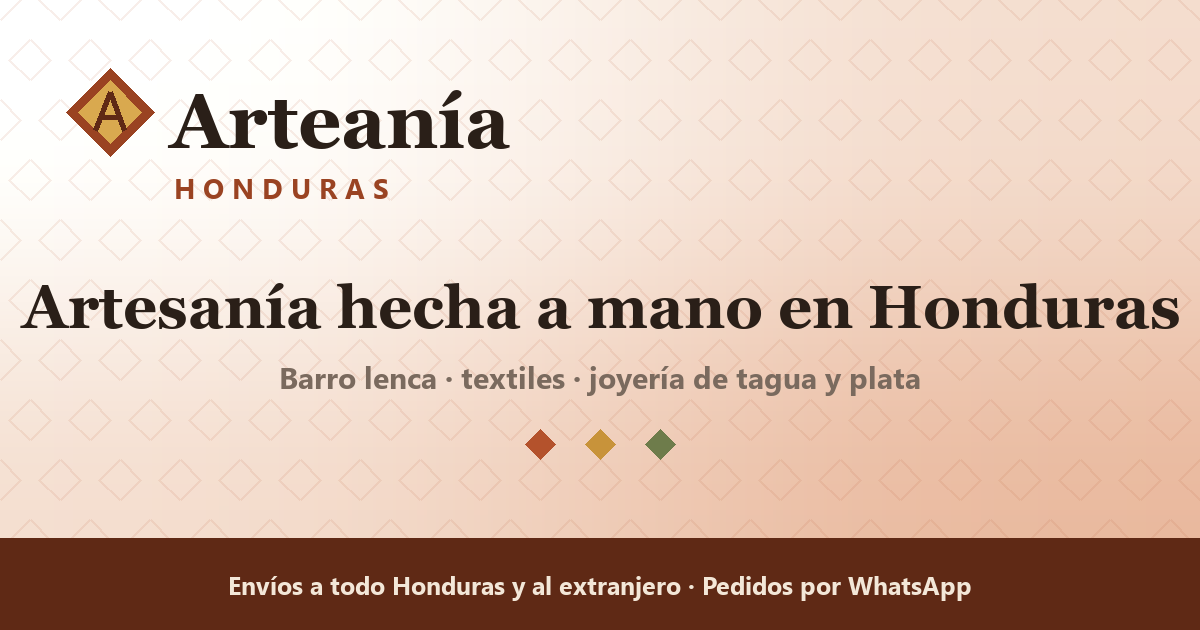
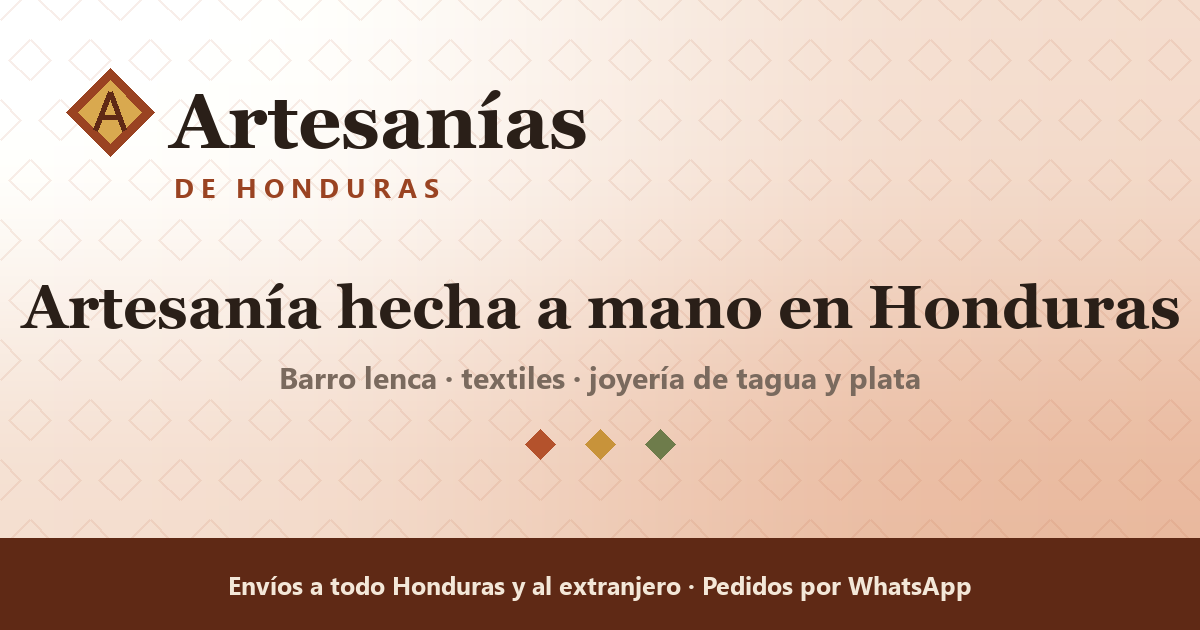
feat: renombrar la marca a Artesanias De Honduras y publicar la ciudad de la tienda
La pagina de Facebook del negocio se llama "Artesanias De Honduras" (Choloma) y el
sitio se llamaba "Arteania Honduras": dos nombres para el mismo negocio. Se unifica
todo al nombre que ya tiene audiencia en Facebook.

Cambio de marca:
- 48 reemplazos en 29 archivos, hechos con un script que solo toca la forma
  acentuada "Arteania". La forma sin tilde ("ArteaniaHonduras") es el nombre del
  repositorio y la ruta base de GitHub Pages, y queda intacta a proposito.
- El logotipo pasa a "Artesanias" con la sublinea "De Honduras", con el
  interletrado ajustado para que las dos lineas queden equilibradas.
- Se regeneran favicon, manifest, robots, las ilustraciones SVG y la tarjeta de
  Open Graph con el nombre nuevo.
- Las descripciones de las paginas, el titulo compuesto y el marcado estructurado
  toman el nombre desde SITE, asi que no hubo que tocarlos uno por uno.

Ubicacion:
- Nuevo bloque UBICACION en la configuracion central: Choloma, Cortes, Honduras.
  Se publica la ciudad porque ya es informacion publica de la pagina de Facebook;
  la direccion exacta y el enlace de Maps quedan como TODO y el marcado
  estructurado los omite mientras esten vacios.
- El PostalAddress del JSON-LD declara ciudad, departamento y pais, lo que ayuda a
  aparecer en busquedas del tipo "artesanias en Cortes".
- La ubicacion aparece en el pie de pagina, en la tarjeta de tienda fisica de
  contacto y en la pagina de envios y pagos.

Changed region(s): [[0.2775, 0.1508, 0.4933, 0.2413], [0.1542, 0.2714, 0.37, 0.3317]]

diff --git a/src/config/site.ts b/src/config/site.ts
@@ -1,5 +1,5 @@
 /**
- * Configuración central del sitio Arteanía Honduras.
+ * Configuración central del sitio Artesanías De Honduras.
  *
  * Este es el ÚNICO archivo que hay que tocar para cambiar datos de contacto,
  * métodos de pago, envíos y banderas de funcionalidad. Ninguna página debe
@@ -11,13 +11,13 @@
 
 export const SITE = {
   /** Nombre legal/comercial que aparece en el logo y los metadatos. */
-  nombre: 'Arteanía Honduras',
-  nombreCorto: 'Arteanía',
+  nombre: 'Artesanías De Honduras',
+  nombreCorto: 'Artesanías',
   /** Lema corto, se usa en el header, el footer y las tarjetas sociales. */
   eslogan: 'Artesanía hecha a mano en Honduras',
   /** Descripción de 150-160 caracteres para SEO y tarjetas sociales. */
   descripcion:
-    'Arteanía Honduras reúne artesanías, textiles y joyería hechas a mano por artesanos hondureños. Piezas únicas con historia, envíos a todo Honduras y al extranjero.',
+    'Artesanías De Honduras reúne artesanías, textiles y joyería hechas a mano por artesanos hondureños. Piezas únicas con historia, envíos a todo Honduras y al extranjero.',
   /** URL canónica del sitio (sin el subdirectorio). */
   url: 'https://artesania-honuras.github.io',
   /** Subdirectorio de publicación en GitHub Pages. Debe coincidir con astro.config.mjs. */
@@ -41,7 +41,7 @@ export const CONTACTO = {
     numeroVisible: '+504 9965-3413',
     /** Mensaje que se prellena cuando el visitante abre el chat genérico. */
     mensajePorDefecto:
-      '¡Hola Arteanía Honduras! Vengo desde su sitio web y quiero información sobre sus piezas artesanales.',
+      '¡Hola Artesanías De Honduras! Vengo desde su sitio web y quiero información sobre sus piezas artesanales.',
     horario: 'Lunes a sábado, 8:00 a.m. a 6:00 p.m. (hora de Honduras)',
   },
   /** Correo de respaldo para proveedores o facturación. Opcional. */
@@ -157,8 +157,8 @@ export const ENVIOS = [
     id: 'tienda-fisica',
     nombre: 'Tienda física y entrega en mano',
     descripcion:
-      'Puedes conocer las piezas en persona, ver los acabados y recoger tu pedido sin costo de envío. Te esperamos con cita previa por WhatsApp.',
-    detalle: 'Dirección y horarios por confirmar. Escríbenos para agendar tu visita.',
+      'Puedes conocer las piezas en persona, ver los acabados y recoger tu pedido sin costo de envío. Estamos en Choloma, Cortés, y te esperamos con cita previa por WhatsApp.',
+    detalle: 'En Choloma, Cortés. Dirección exacta y horarios por confirmar: escríbenos y te los compartimos.',
     icono: 'tienda',
   },
 ] as const;
@@ -218,3 +218,28 @@ export const NEGOCIO = {
   /** Rango de precios orientativo para datos estructurados. */
   rangoPrecios: '$$',
 } as const;
+
+/**
+ * Ubicación del negocio.
+ *
+ * La ciudad se publica porque ya es pública en la página de Facebook de la
+ * marca. La dirección exacta sigue pendiente: mientras `direccion` esté vacía,
+ * el marcado estructurado publica solo ciudad, departamento y país, y las
+ * páginas muestran el aviso de "por confirmar".
+ */
+export const UBICACION = {
+  ciudad: 'Choloma',
+  departamento: 'Cortés',
+  pais: 'Honduras',
+  paisCodigo: 'HN',
+  /** TODO: dirección exacta de la tienda, cuando esté confirmada. */
+  direccion: '',
+  /** TODO: enlace de Google Maps de la ubicación exacta. */
+  mapsUrl: '',
+} as const;
+
+/** Ubicación tal como se muestra en el sitio: "Choloma, Cortés". */
+export const UBICACION_TEXTO = `${UBICACION.ciudad}, ${UBICACION.departamento}`;
+
+/** Ubicación completa para textos largos: "Choloma, Cortés, Honduras". */
+export const UBICACION_COMPLETA = `${UBICACION.ciudad}, ${UBICACION.departamento}, ${UBICACION.pais}`;

diff --git a/src/lib/seo.ts b/src/lib/seo.ts
@@ -1,4 +1,4 @@
-import { SITE, CONTACTO, NEGOCIO, FUNCIONES } from '@/config/site';
+import { SITE, CONTACTO, NEGOCIO, FUNCIONES, UBICACION } from '@/config/site';
 import { urlAbsoluta, enlace } from '@/lib/rutas';
 import type { ProductoVista } from '@/lib/catalogo';
 
@@ -25,6 +25,18 @@ export function organizacionSchema(): JsonLd {
     paymentAccepted: 'Transferencia bancaria, Tigo Money, BAC Credomatic, pago contra entrega',
     image: urlAbsoluta('/imagenes/og-default.png'),
     logo: urlAbsoluta('/favicon.svg'),
+    // Localización: ayuda a aparecer en búsquedas del tipo "artesanías en
+    // Cortés". La calle solo se publica cuando esté confirmada; mientras tanto
+    // se declara ciudad, departamento y país, que ya son información pública de
+    // la página de Facebook de la marca.
+    address: {
+      '@type': 'PostalAddress',
+      ...(UBICACION.direccion ? { streetAddress: UBICACION.direccion } : {}),
+      addressLocality: UBICACION.ciudad,
+      addressRegion: UBICACION.departamento,
+      addressCountry: UBICACION.paisCodigo,
+    },
+    ...(UBICACION.mapsUrl ? { hasMap: UBICACION.mapsUrl } : {}),
     contactPoint: [
       {
         '@type': 'ContactPoint',

diff --git a/src/lib/whatsapp.ts b/src/lib/whatsapp.ts
@@ -77,7 +77,7 @@ export function mensajeGeneral(asunto?: string): string {
  */
 if (!whatsappConfigurado()) {
   console.warn(
-    '\n[Arteanía Honduras] ATENCIÓN: CONTACTO.whatsapp.numero sigue con el valor de ejemplo.\n' +
+    '\n[Artesanías De Honduras] ATENCIÓN: CONTACTO.whatsapp.numero sigue con el valor de ejemplo.\n' +
       '  Edita src/config/site.ts y coloca el número real en formato internacional (504 + 8 dígitos).\n' +
       '  Mientras no lo hagas, todos los botones de WhatsApp abrirán un chat inexistente.\n',
   );

diff --git a/src/styles/global.css b/src/styles/global.css
@@ -5,7 +5,7 @@
 @import 'tailwindcss';
 
 /* ==========================================================================
-   Arteanía Honduras — sistema de diseño
+   Artesanías De Honduras — sistema de diseño
    Paleta: barro, crema, olivo, añil y ocre. Estilo artesanal cálido premium.
    ========================================================================== */
 

diff --git a/scripts/generar-raster.py b/scripts/generar-raster.py
@@ -1,5 +1,5 @@
 """
-Genera las dos imágenes raster de Arteanía Honduras:
+Genera las dos imágenes raster de Artesanías De Honduras:
 
   - public/imagenes/og-default.png   (1200x630, tarjeta para redes sociales)
   - public/apple-touch-icon.png      (180x180, icono para iOS)
@@ -157,11 +157,11 @@ def generar_og() -> Path:
 
     # Marca
     marca(dibujo, 110, 112, 44)
-    dibujo.text((170, 78), "Arteanía", font=cargar_fuente(FUENTES_SERIF, 76), fill=TINTA_900)
+    dibujo.text((170, 78), "Artesanías", font=cargar_fuente(FUENTES_SERIF, 76), fill=TINTA_900)
     dibujo.text(
         (174, 168),
-        "H O N D U R A S",
-        font=cargar_fuente(FUENTES_SANS, 28),
+        "D E   H O N D U R A S",
+        font=cargar_fuente(FUENTES_SANS, 27),
         fill=BARRO_600,
     )
 

diff --git a/README.md b/README.md
@@ -1,8 +1,8 @@
-# Arteanía Honduras
+# Artesanías De Honduras
 
 **Artesanía hecha a mano en Honduras.**
 
-Sitio web de marca y catálogo de **Arteanía Honduras**: un espacio para mostrar piezas
+Sitio web de marca y catálogo de **Artesanías De Honduras**: un espacio para mostrar piezas
 artesanales hondureñas —barro, madera, fibra, textil, plata, tagua y cuero— hechas por talleres
 familiares de distintos departamentos del país.
 
@@ -23,7 +23,7 @@ antes de difundir el enlace a gran escala:
 
 | # | Pendiente | Dónde se corrige | Por qué importa |
 | - | --------- | ---------------- | --------------- |
-| 1 | **Dirección de la tienda física** y horarios | `src/config/site.ts` → `ENVIOS` (modalidad `tienda-fisica`) | La página de envíos y pagos anuncia una tienda sin dirección. |
+| 1 | **Dirección exacta de la tienda física** y horarios. La ciudad (**Choloma, Cortés**) ya está publicada | `src/config/site.ts` → `UBICACION` y `ENVIOS` (modalidad `tienda-fisica`) | El sitio ya dice en qué ciudad está, pero quien quiera visitarla todavía tiene que preguntar la dirección por WhatsApp. |
 | 2 | **Fotografías reales de producto** | Guarda las fotos en `fotos-originales/` y ejecuta `npm run fotos:procesar` | Hoy hay ilustraciones SVG generadas con `npm run imagenes:generar`. Sirven para maquetar, no para vender. |
 | 3 | **Revisar privacidad y términos** con criterio propio | `src/pages/privacidad.astro`, `src/pages/terminos.astro` | Son textos base redactados como punto de partida. **No son asesoría legal.** |
 | 4 | **Dominio propio (opcional)** | `site` y `base` en `astro.config.mjs` y `src/config/site.ts` | Sin dominio propio el sitio funciona, pero la URL es larga y no es de marca. |
@@ -249,5 +249,5 @@ Sin carrito de compras por decisión de negocio: la venta se cierra por WhatsApp
 
 ---
 
-© 2026 Arteanía Honduras. Contenido, fotografías, ilustraciones y textos: todos los derechos
+© 2026 Artesanías De Honduras. Contenido, fotografías, ilustraciones y textos: todos los derechos
 reservados. Ver [LICENSE](LICENSE).

diff --git a/docs/CHECKLIST-LANZAMIENTO.md b/docs/CHECKLIST-LANZAMIENTO.md
@@ -1,4 +1,4 @@
-# Checklist de lanzamiento — Arteanía Honduras
+# Checklist de lanzamiento — Artesanías De Honduras
 
 Lista de verificación para publicar el sitio. Marca cada casilla **solo cuando lo hayas
 comprobado tú mismo**, no cuando creas que está hecho.
@@ -35,8 +35,14 @@ bloque 5 (operación).
       la realidad.
 - [ ] Revisar el mensaje por defecto del chat (`mensajePorDefecto`): que suene natural y diga de
       dónde viene la persona.
-- [ ] Decidir si se publican redes sociales. Si sí, llenar los campos de `CONTACTO.redes`; si no,
-      **dejarlos vacíos** para que no aparezcan en el pie de página.
+- [x] **Página de Facebook publicada** en el pie de página y en la tarjeta de contacto, con el
+      enlace también en el marcado estructurado (`sameAs`) para que los buscadores la asocien.
+- [x] **Ciudad de la tienda física publicada** (Choloma, Cortés) en `UBICACION` y en el
+      `PostalAddress` del marcado estructurado.
+- [ ] **`TODO:` Completar la dirección exacta** en `UBICACION.direccion` y el enlace de Google Maps
+      en `UBICACION.mapsUrl`. Mientras estén vacíos, la web solo publica la ciudad.
+- [ ] **`TODO:` Publicar los horarios de la tienda física** y coordinar quién atiende las visitas
+      con cita previa.
 - [ ] Decidir si se publica un correo de respaldo (`CONTACTO.correo`). Si no hay, dejarlo vacío.
 - [ ] Revisar el nombre, el lema y la descripción de la marca en `SITE` (la descripción es la que
       aparece en Google): que sean correctos y estén bien escritos.

diff --git a/docs/ARQUITECTURA.md b/docs/ARQUITECTURA.md
@@ -1,4 +1,4 @@
-# Arquitectura del sitio — Arteanía Honduras
+# Arquitectura del sitio — Artesanías De Honduras
 
 Documento técnico. Explica **cómo está construido** el sitio, por qué está construido así y qué
 reglas hay que respetar al modificarlo. Para editar contenido no hace falta leer esto: ver
@@ -356,7 +356,7 @@ multilínea, no. Ya ocurrió una vez en este proyecto: no reintroducirlo.
 Todas las páginas pasan por la plantilla `Base.astro`, que recibe `titulo`, `descripcion`,
 `imagen`, `tipo`, `noindex`, `jsonLd`, `sufijo` y `mensajeFlotante`, y construye:
 
-- `<title>` compuesto (`Título | Arteanía Honduras`).
+- `<title>` compuesto (`Título | Artesanías De Honduras`).
 - `<meta name="description">` con el valor recibido o la descripción de la marca.
 - **Canónica** calculada con `canonica(Astro.url.pathname)`.
 - `robots` según `noindex`; si no, `index, follow, max-image-preview:large, max-snippet:-1`.

diff --git a/CHANGELOG.md b/CHANGELOG.md
@@ -9,7 +9,7 @@ El formato sigue [Keep a Changelog](https://keepachangelog.com/es-ES/1.1.0/) y e
 
 ## [1.0.0] — 2026-10-09
 
-Primera versión publicable del sitio de Arteanía Honduras: sitio de marca y catálogo consultivo
+Primera versión publicable del sitio de Artesanías De Honduras: sitio de marca y catálogo consultivo
 para artesanías, textiles y joyería hechas a mano en Honduras.
 
 ### Añadido

diff --git a/ANALISIS.md b/ANALISIS.md
@@ -1,4 +1,4 @@
-# Análisis del repositorio Arteanía Honduras
+# Análisis del repositorio Artesanías De Honduras
 
 **Documento de análisis técnico y de decisiones**
 Repositorio: `Artesania-Honuras/ArteaniaHonduras`

diff --git a/.github/pull_request_template.md b/.github/pull_request_template.md
@@ -1,4 +1,4 @@
-# Plantilla de pull request — Arteanía Honduras
+# Plantilla de pull request — Artesanías De Honduras
 
 Gracias por contribuir. Marca lo que ya verificaste; si algo no aplica, explica por qué.
 

diff --git a/docs/ROADMAP-TIENDA.md b/docs/ROADMAP-TIENDA.md
@@ -1,4 +1,4 @@
-# Hoja de ruta de la tienda — Arteanía Honduras
+# Hoja de ruta de la tienda — Artesanías De Honduras
 
 **De sitio de catálogo a tienda en línea.**
 
